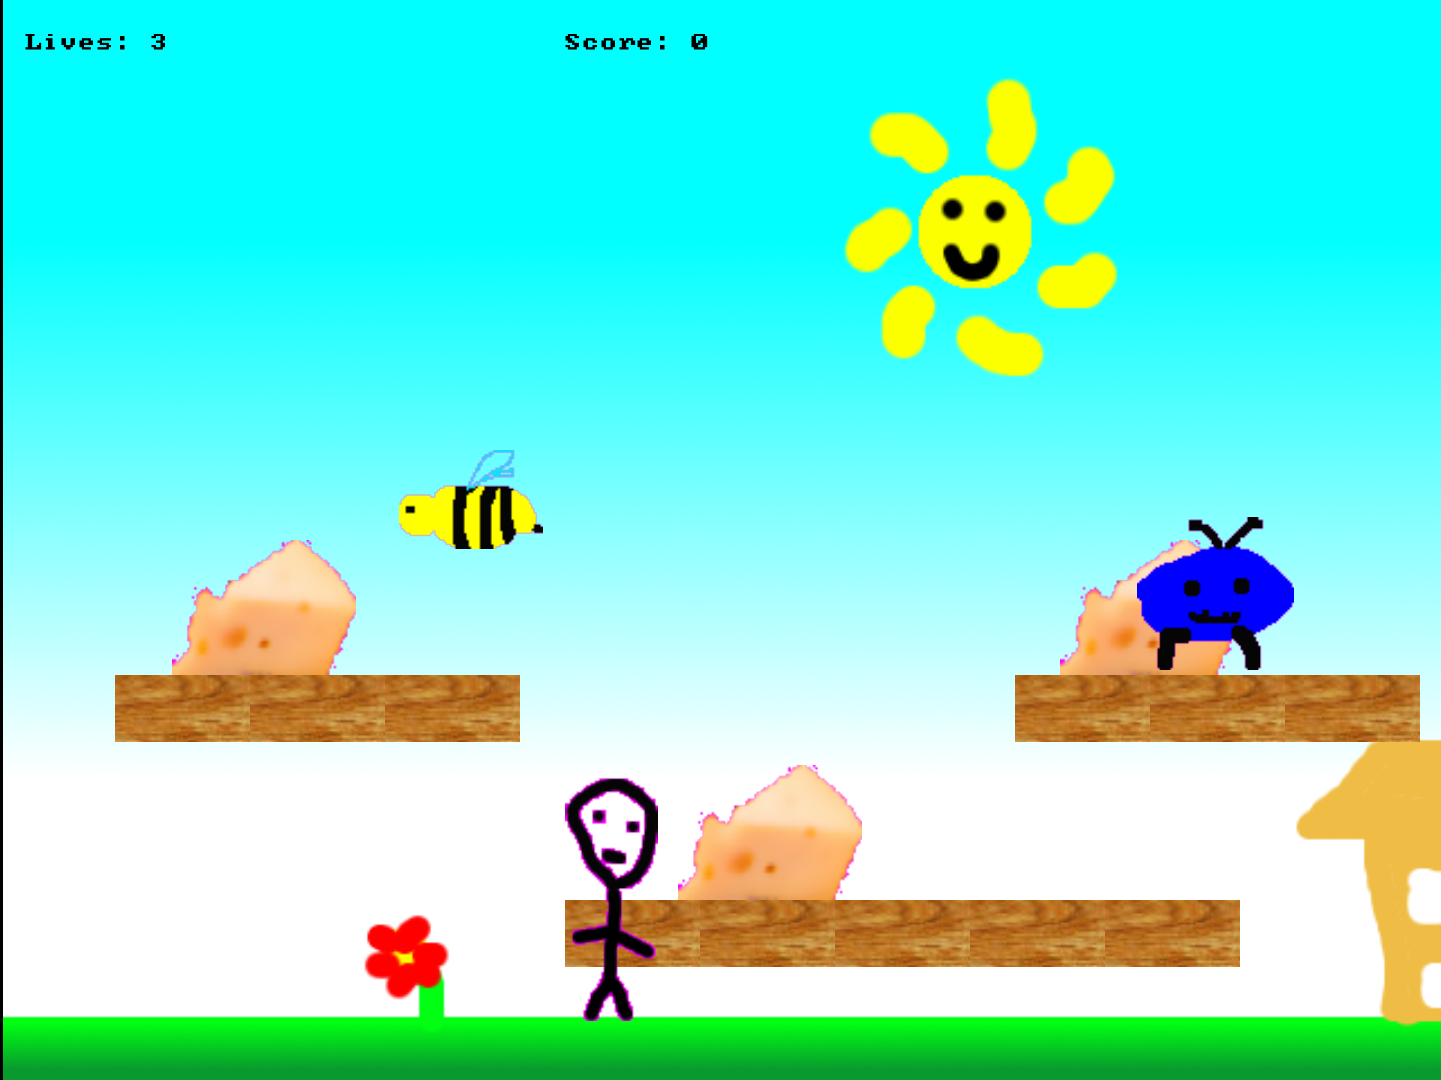
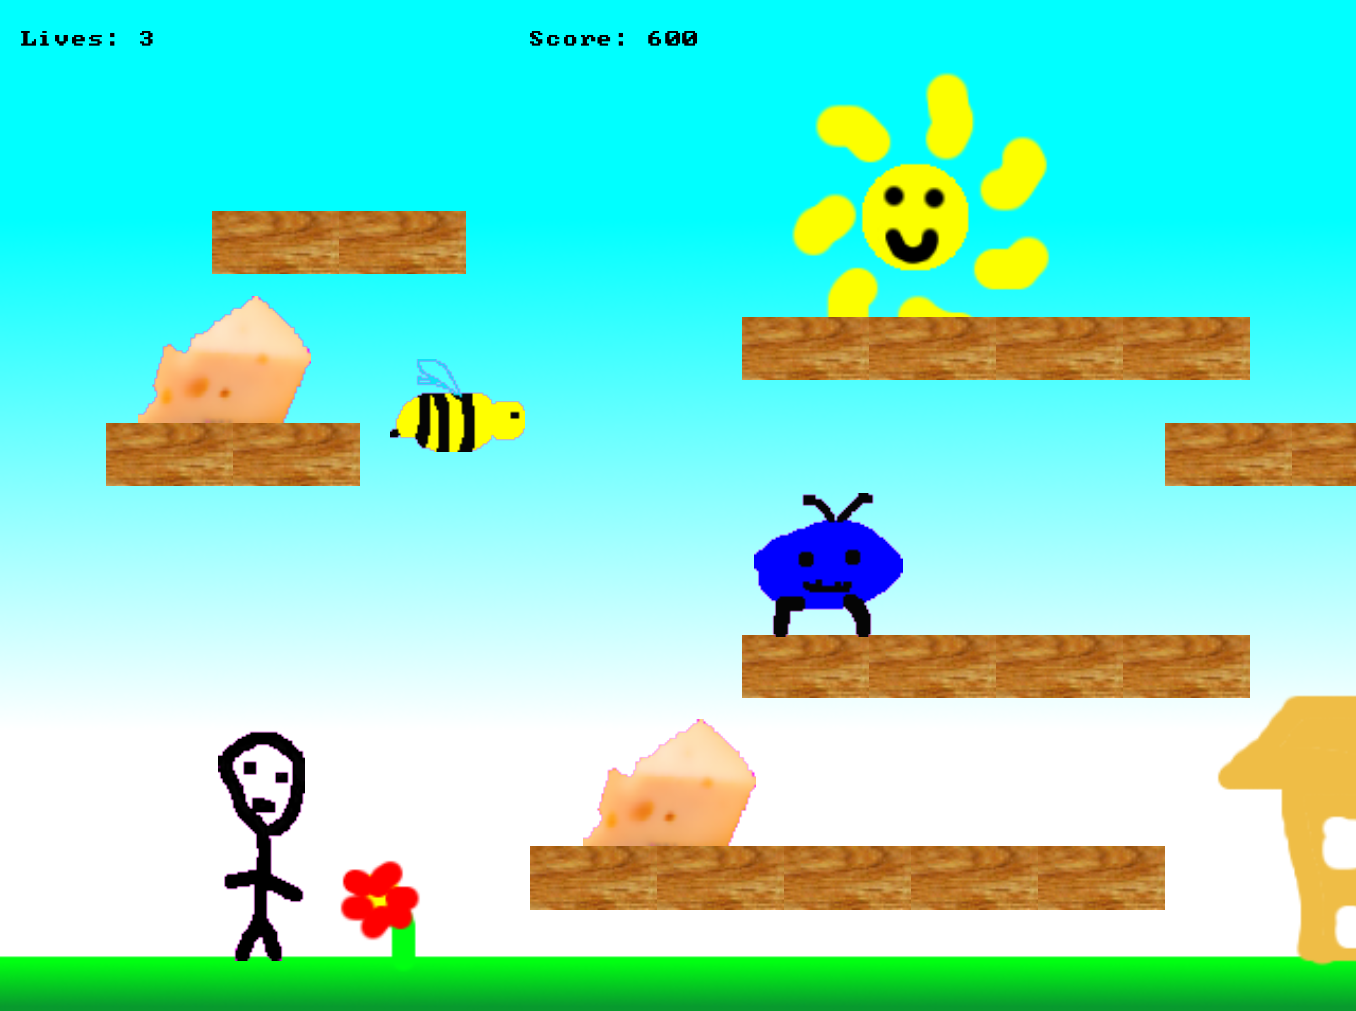
readme and screenshot updates

diff --git a/README.md b/README.md
@@ -7,11 +7,27 @@ It's a very simple platform game. Gather the cheese to progress to the next leve
 ### Controls  
 
 Joypad or keys:
-Left and right arrows to move. Space to jump.
+Left and right arrows (or pad) to move. Space (or buttons) to jump. Tap buttons to fall through platforms.
 
 ### Status  
 
-Work In Progress: This is an SDL 3 conversion of an older project. Currently working through features from original. See main.cpp for TODO list.
+This is an SDL3 conversion of an older project: 
+[Oily Bob Original](https://github.com/Jamibaraki/oily-bob)
+
+Features from the original are now in, along with a few minor improvements:
+
+* Code organization improvements over single file original
+* An ending
+* Even better graphics
+
+Possible future improvements:  
+
+* Sprite animation
+* Level and death transitions
+* New Levels
+* Persistent High Scores
+* Entity classes reworked and explicit sprite handling class used
+* Better sound management
 
 ### Building  
 
@@ -21,6 +37,25 @@ Requires **SDL 3**.
 ```bash
 g++ *.cpp -o oily-bob -lSDL3
 ```
+
+### Running
+
+Runs by opening the .exe file.
+
+Requires SDL3.dll in the runtime folder, along with the **contents** of the asset folder, so the runtime folder with contain:
+* the exe
+* SDL3.dll
+* graphics folder, containing the graphics
+* sound folder, containing the sounds
+
+### Feature List
+
+* Four levels of cheese-tastic platforming action!
+* Original Graphics and Sounds!!
+* Butter-smooth scrolling!!!
+* High Score Table!!!!
+* Luxurious background gradients!!!!!
+* Bert the worm!!!!!!!
 
 ### Screenshot  
 
